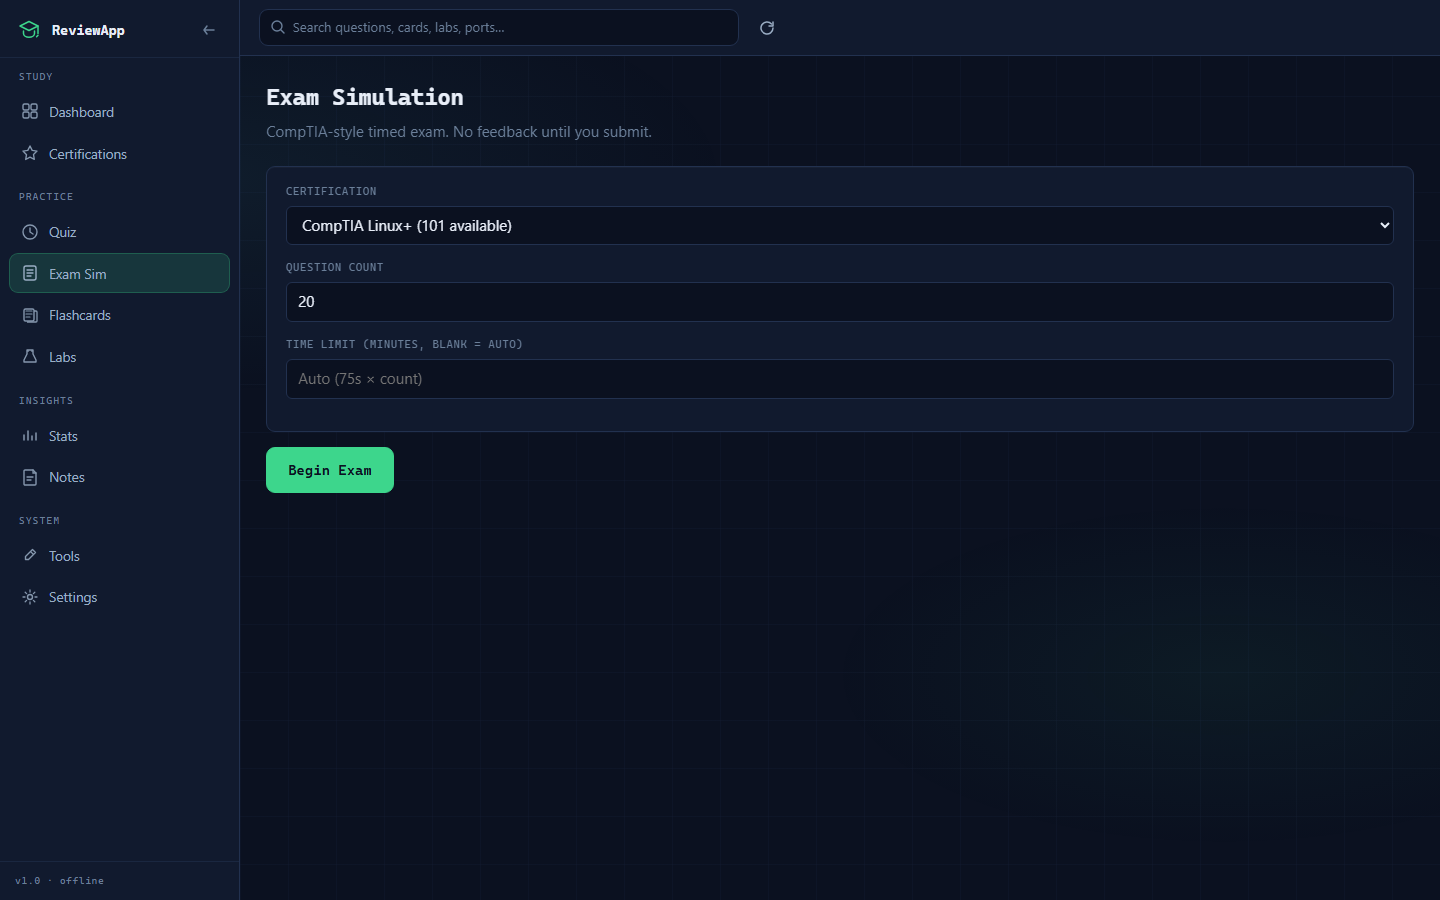
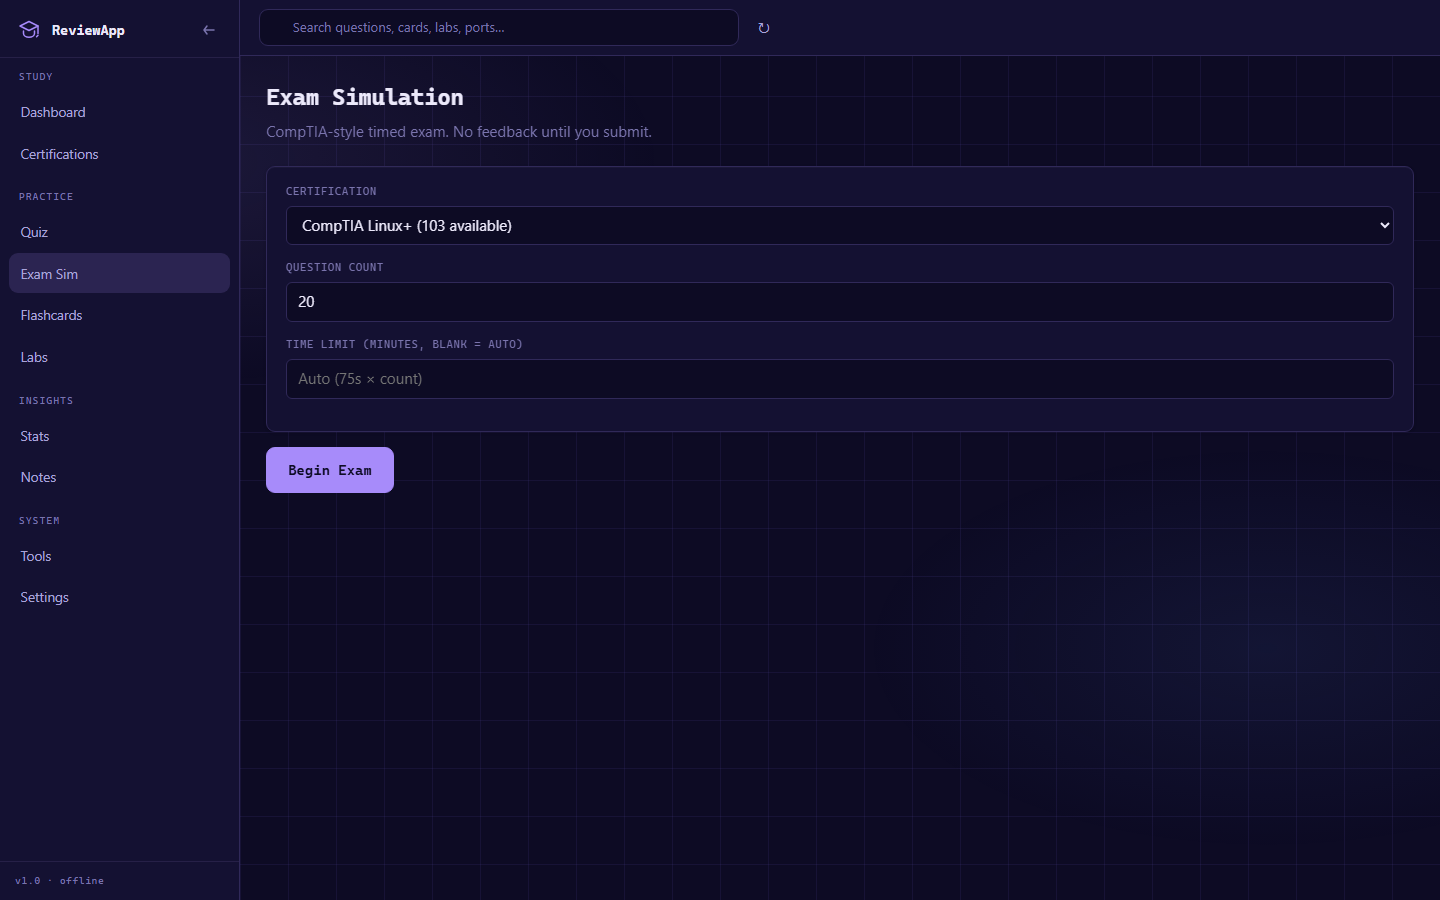
Fix README prompt-generator link and refresh docs for the theme system
Points the Prompt Generator link at docs/prompt-generator.txt (the tracked
canonical file; the root copy no longer exists), updates the theme/animations/
settings descriptions, adds the command_match type and Appearance row, and
corrects the project-layout and design-notes sections. Regenerates all six
README screenshots against the new Purple Night default theme.

🤖 Generated with Codebuff

diff --git a/README.md b/README.md
@@ -44,8 +44,9 @@ That’s it. All progress lives in your browser’s `localStorage`.
 | **Stats** | Accuracy, question coverage, chapter progress, streak, activity chart, weak tags, exam history, CSV/JSON/MD export |
 | **Tools** | Subnet calculator, number converter, common ports, Linux command reference |
 | **Search** | Live search across questions, cards, labs, notes, ports, and commands; keyboard navigation with arrows, Enter, and Esc |
+| **Appearance** | 9 themes with live swatch previews, text size, and an Animations on/off toggle |
 
-Dark theme by default. Light theme and small, medium, or large text options are available in Settings. Fully keyboard-accessible.
+**Purple Night** theme by default. 9 themes (Purple Night, Dracula, Monokai, Xcode, Nord, One Dark, Solarized Dark, Tokyo Night, and classic Light) with palette previews, plus small/medium/large text and an **Animations** on/off toggle — all in Settings. Fully keyboard-accessible.
 
 ---
 
@@ -80,6 +81,7 @@ Dark theme by default. Light theme and small, medium, or large text options are 
 Review/
 ├── index.html                 ← open this
 ├── app/
+│   ├── favicon.svg
 │   ├── css/styles.css
 │   └── js/
 │       ├── core.js            namespace, router, toasts, modal
@@ -100,7 +102,9 @@ Review/
 │   └── network-plus/
 │       └── questions/
 └── docs/
-    └── CONTENT_FORMAT.md      full schema + templates
+    ├── CONTENT_FORMAT.md      full schema + templates
+    ├── prompt-generator.txt   AI content-generation prompts
+    └── screenshots/           README screenshots
 ```
 
 ---
@@ -121,7 +125,7 @@ window.ReviewApp.content.register({
   items: [
     {
       q: "Which command prints the current working directory?",
-      type: "mcq",              // mcq | multi | tf | fill
+      type: "mcq",              // mcq | multi | tf | fill | command_match
       options: ["pwd", "cd", "ls", "cwd"],
       answer: 0,
       explain: "pwd = print working directory.",
@@ -131,7 +135,7 @@ window.ReviewApp.content.register({
 });
 ```
 
-See **`docs/CONTENT_FORMAT.md`** for full schemas (flashcards, labs, notes) and copy-paste templates.
+See **`docs/CONTENT_FORMAT.md`** for full schemas (flashcards, labs, notes, `command_match`) and copy-paste templates.
 
 ### 2. Register it in the manifest
 
@@ -153,7 +157,7 @@ A toast confirms how many questions, cards, labs, and notes were loaded.
 
 Feed unit notes to an AI with the prompts described in your workflow (questions / flashcards / labs / notes separately). Save each reply as a `.js` file under the matching folder, then update the manifest and reload.
 
-**Check [Prompt Generator](./prompt-generator.txt) file for the templates.**
+**Check the [Prompt Generator](./docs/prompt-generator.txt) file for the templates.**
 
 ---
 
@@ -165,7 +169,7 @@ Feed unit notes to an AI with the prompts described in your workflow (questions 
 | Leitner card boxes | `localStorage` |
 | Exam history | `localStorage` |
 | Personal notes | `localStorage` |
-| Settings (theme, pass %) | `localStorage` |
+| Settings (theme, text size, animations, pass %) | `localStorage` |
 
 Nothing leaves your machine.  
 **Settings → Export backup** downloads a full JSON snapshot.  
@@ -179,7 +183,8 @@ Nothing leaves your machine.
 - Runs on the `file://` protocol (classic `<script>` tags, no ES modules).
 - Inline SVG icons; system font stacks (mono for terminal flavor, sans for body).
 - Honors `prefers-reduced-motion`.
-- Ambient grid + soft glows; layered dark-blue surfaces; green / amber / cyan accents.
+- Ambient grid + soft glows; layered dark-blue surfaces.
+- Themeable accent system — Purple Night (violet) by default, plus Dracula, Monokai, Xcode, Nord, One Dark, Solarized Dark, Tokyo Night, and Light. Semantic green / amber / cyan / red states stay distinguishable in every theme.
 
 ---
 
